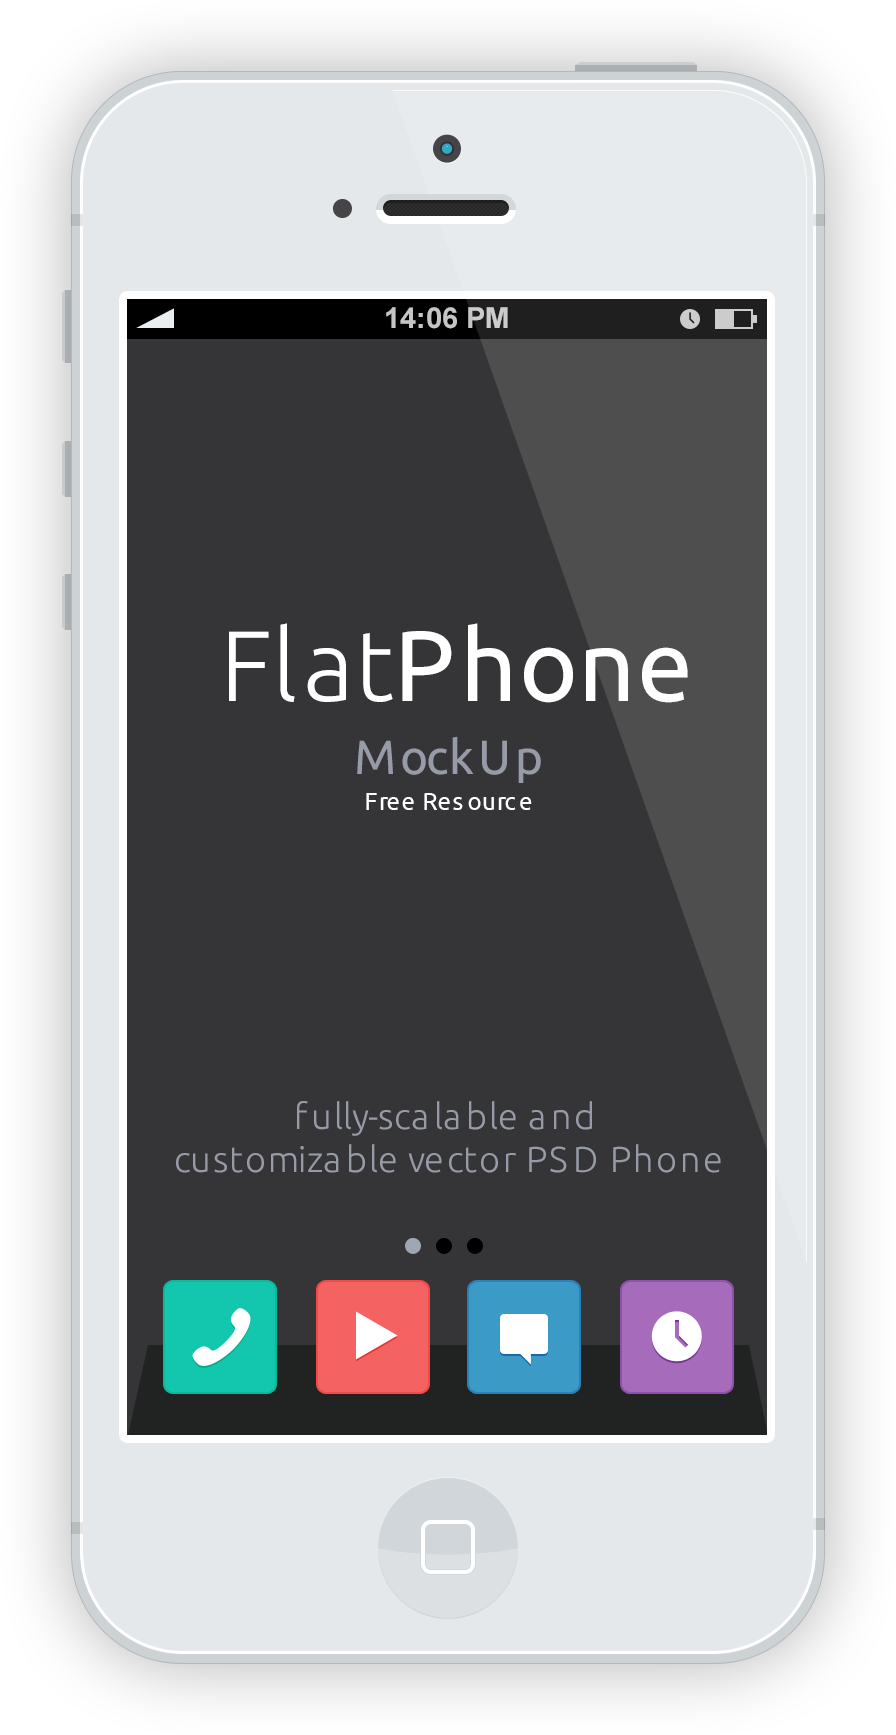
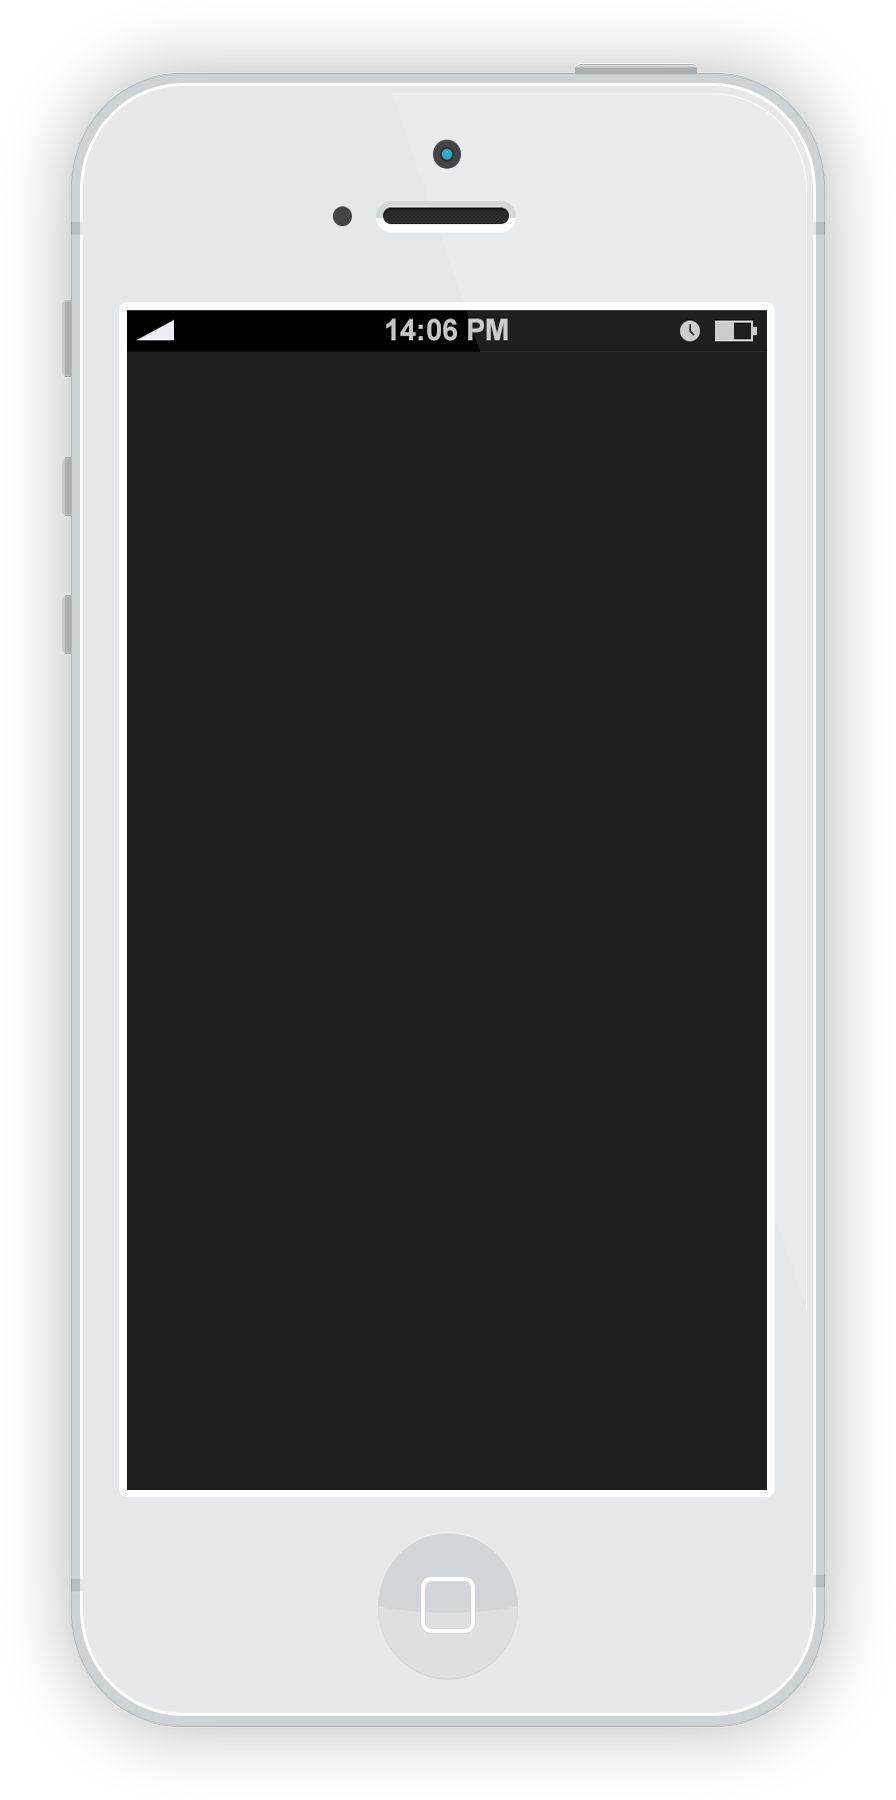
update

diff --git a/public/css/form.css b/public/css/form.css
@@ -190,19 +190,22 @@ li.user{margin-top:10px; widows: 120px;}
 .login-btn:hover{background-color: #d0d0d0;}
 .share{width: 500px; background-color: #fff;padding: 20px;text-align: center;}
 
-.phonewrap{position: relative;left:10%;top:0;height: 100%;}
-.phone-new{position: relative;height: 579px;width: 400px;left: 180px;top: -72px;}
+/*2015-06-14*/
+.phonewrap{position: relative;left:10%;top:0px;height: 100%;}
+.phone-new{position: relative;height: 579px;width: 400px;left: 180px;top: 0px;}
 .phone-header{position: absolute;width: 232px;height: 50px;top: 158px;left: 46px;z-index: 100;}
 .phone-header-img{position: absolute;width: 100%;height: 50px;}
-.phone-main-view{border: none;width: 232px;height: 362px;top: 208px;left: 46px;background-color: #fff;z-index: 999;position: absolute;}
-.phone-bg{width:325px;position:absolute;top:50px;}
-.phone-up{position: absolute;width: 61px;height: 61px; line-height:71px; text-align:center; font-size:30px; background-color:#4cae4c; color:#fff;border-radius:100px;bottom: 110px;right: -20px;cursor: pointer;}
-.phone-down{position: absolute;width: 61px;height: 61px; line-height:71px; text-align:center; font-size:30px; background-color:#4cae4c; color:#fff;border-radius:100px;bottom: 20px;right: -20px;cursor: pointer;}
+.phone-main-view{border: none;width: 180px;height: 320px;top: 149px;left: 35px;background-color: #fff;z-index: 999;position: absolute;}
+/*.phone-bg{width:325px;position:absolute;top:50px;}*/
+.phone-bg{width:250px;height:506px;position:absolute;top:50px;}
+.phone-up{position: absolute;width: 41px;height: 41px; line-height:46px; text-align:center; font-size:18px; background-color:#4cae4c; color:#fff;border-radius:100px;bottom: 230px;right: 60px;cursor: pointer;}
+.phone-down{position: absolute;width: 41px;height: 41px; line-height:46px; text-align:center; font-size:18px; background-color:#4cae4c; color:#fff;border-radius:100px;bottom: 160px;right: 60px;cursor: pointer;}
 .phone-up:hover , .phone-down:hover{background-color: #449d44;}
-.qrcode-side{display: block;position: absolute;top: 40%;margin-top: -100px;left: 760px;}
+.qrcode-side{display: block;position: absolute;top: 40%;margin-top: -100px;left: 660px;}
 .qrcode-title{margin-bottom: 10px;font-size: 16px;}
 .app-set{margin-top: 10px;}
-.app-set > button{margin-bottom:10px;width:200px;}
+.app-set > button{margin-bottom:10px;}
+/*2015-06-14*/
 
 .form-control{border-radius: 0px !important;}
 li.add{background:rgba(0,0,0,0.3);padding-right:10px;}

diff --git a/form.html b/form.html
@@ -514,7 +514,7 @@
 </div>
 <!--展示弹窗 -->
 <div class="modal fade" id="showModel" tabindex="-1" role="dialog" aria-labelledby="myModalLabel" aria-hidden="true">
-  <div class="modal-dialog" style="width:1200px;">
+  <div class="modal-dialog" style="width:1000px;">
     <div class="modal-content">
       <div class="modal-header">
         <button type="button" class="close" data-dismiss="modal" aria-label="Close"><span aria-hidden="true">&times;</span></button>
@@ -523,9 +523,9 @@
       <div class="modal-body">
         <div class="phonewrap">
             <div class="phone-new">
-                <div class="phone-header">
+<!--                 <div class="phone-header">
                     <img class="phone-header-img" src="public/image/signal-title.png">
-                </div>
+                </div> -->
                  <iframe src="" id="v_preview_src" name="v_preview_src" class="phone-main-view" frameborder="0" style="width:180px; height:320px"></iframe>
                 <img class="phone-bg" src="public/image/iphone-preview.png">
                 <div class="phone-up e_up_page"><span class="glyphicon glyphicon-menu-up" aria-hidden="true"></span></div>
